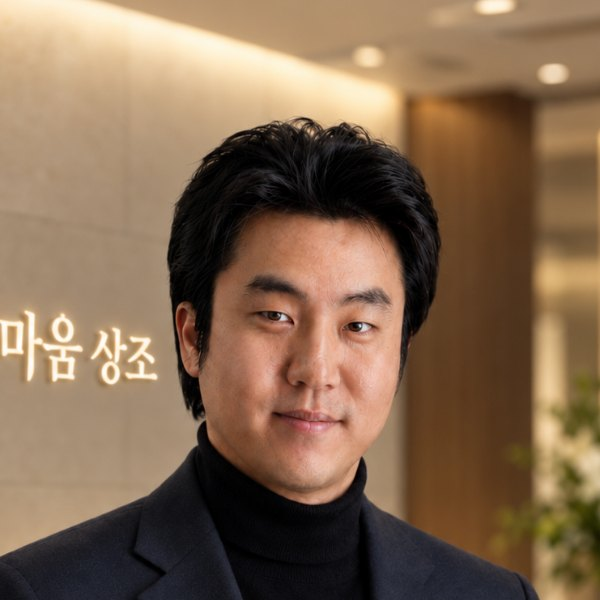
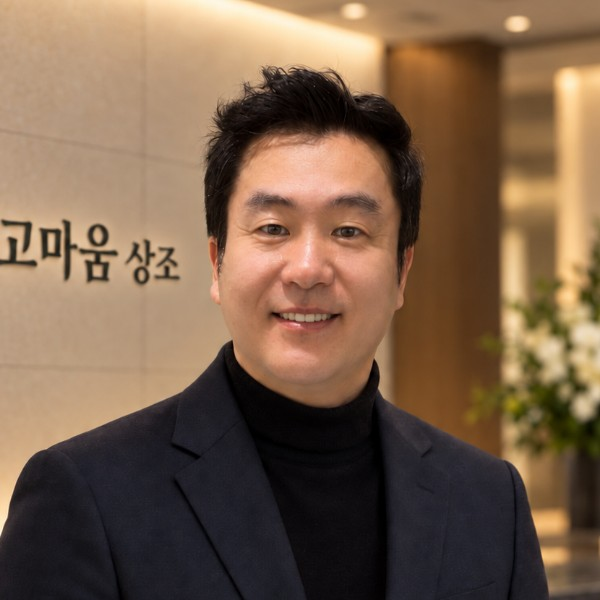
대표 사진을 새 사진으로 바꿨다
대표의 글(홈 둥근 사진)과 약속 쪽의 큰 사진 둘 다 새 사진에서
잘라 냈다. 뒤편 벽 로고가 사이트 로고와 같은 판이다.

- daepyo.jpg  1000×1250 — 원본 비율 그대로
- card-daepyo.jpg 600×600 — 얼굴을 가운데 두고 머리 위 여백을 둔다

Claude-Session: https://claude.ai/code/session_01GkdHr9oZgWkji8dZFs8UMJ

diff --git a/sikjang.html b/sikjang.html
@@ -16,7 +16,7 @@
 <link rel="preconnect" href="https://fonts.gstatic.com" crossorigin>
 <link rel="stylesheet" href="https://fonts.googleapis.com/css2?family=Noto+Serif+KR:wght@400;600;700&family=IBM+Plex+Mono:wght@400;500;600&family=Noto+Sans+KR:wght@400;500;700&display=swap">
 <link rel="stylesheet" href="https://cdn.jsdelivr.net/gh/orioncactus/pretendard@v1.3.9/dist/web/static/pretendard-dynamic-subset.css">
-<link rel="stylesheet" href="assets/css/gomaum.css?v=20260912b">
+<link rel="stylesheet" href="assets/css/gomaum.css?v=20260913a">
 <style>
 .sj-map { scroll-margin-top: 76px; height: 380px; background: var(--surface-2); border: 1px solid var(--line); border-radius: var(--radius); margin: 18px 0 10px; }
 .sj-map[hidden] { display: none; }
@@ -227,7 +227,7 @@
 <script src="assets/js/site-keys.js"></script>
 <script src="assets/js/gm-chrome.js"></script>
 <script src="assets/js/gm-menu.js"></script>
-<script src="assets/js/gm-chat.js?v=20260912b"></script>
+<script src="assets/js/gm-chat.js?v=20260913a"></script>
 <script>
 /* ── 장례식장·납골당 찾기 ──────────────────────────────────
    site-keys.js에 카카오 JavaScript 키가 있으면: 내 주변(위치 허용) 또는 시·도/시·군·구 선택으로

diff --git a/index.html b/index.html
@@ -19,7 +19,7 @@
 <link rel="preconnect" href="https://fonts.gstatic.com" crossorigin>
 <link rel="stylesheet" href="https://fonts.googleapis.com/css2?family=Noto+Serif+KR:wght@400;600;700&family=IBM+Plex+Mono:wght@400;500;600&family=Noto+Sans+KR:wght@400;500;700&display=swap">
 <link rel="stylesheet" href="https://cdn.jsdelivr.net/gh/orioncactus/pretendard@v1.3.9/dist/web/static/pretendard-dynamic-subset.css">
-<link rel="stylesheet" href="assets/css/gomaum.css?v=20260912b">
+<link rel="stylesheet" href="assets/css/gomaum.css?v=20260913a">
 <style>
 /* ── 홈: 커버 한 장, 노래 하나, 전화 하나 ─────────────────
    음악 앱의 '지금 재생 중' 화면처럼. 사진, 이름, 재생 막대, 그리고 전화. */
@@ -409,7 +409,7 @@ a { color: inherit; }
 <script src="assets/js/site-keys.js"></script>
 <script src="assets/js/quiet-horn.js"></script>
 <script src="assets/js/gm-menu.js"></script>
-<script src="assets/js/gm-chat.js?v=20260912b"></script>
+<script src="assets/js/gm-chat.js?v=20260913a"></script>
 <script src="assets/js/petals.js"></script>
 <script>
 /* 떨어지는 백합 꽃잎 — 사진 위, 글자 위로는 옅어진다 */

diff --git a/yaksok.html b/yaksok.html
@@ -17,7 +17,7 @@
 <link rel="preconnect" href="https://fonts.gstatic.com" crossorigin>
 <link rel="stylesheet" href="https://fonts.googleapis.com/css2?family=Noto+Serif+KR:wght@400;600;700&family=IBM+Plex+Mono:wght@400;500;600&family=Noto+Sans+KR:wght@400;500;700&display=swap">
 <link rel="stylesheet" href="https://cdn.jsdelivr.net/gh/orioncactus/pretendard@v1.3.9/dist/web/static/pretendard-dynamic-subset.css">
-<link rel="stylesheet" href="assets/css/gomaum.css?v=20260912b">
+<link rel="stylesheet" href="assets/css/gomaum.css?v=20260913a">
 <style>
 .yk-vision { font-family: var(--f-display); font-size: clamp(1.6rem, 5vw, 2.5rem); font-weight: 700; line-height: 1.34; margin: 0 0 14px; letter-spacing: -0.02em; color: #fff; text-shadow: 0 2px 16px rgba(0,0,0,0.55); }
 .yk-vision span { background: none; color: #fff; padding: 0; }
@@ -171,6 +171,6 @@
 <script src="assets/js/site-keys.js"></script>
 <script src="assets/js/gm-chrome.js"></script>
 <script src="assets/js/gm-menu.js"></script>
-<script src="assets/js/gm-chat.js?v=20260912b"></script>
+<script src="assets/js/gm-chat.js?v=20260913a"></script>
 </body>
 </html>

diff --git a/hyeopryeok.html b/hyeopryeok.html
@@ -16,7 +16,7 @@
 <link rel="preconnect" href="https://fonts.gstatic.com" crossorigin>
 <link rel="stylesheet" href="https://fonts.googleapis.com/css2?family=Noto+Serif+KR:wght@400;600;700&family=IBM+Plex+Mono:wght@400;500;600&family=Noto+Sans+KR:wght@400;500;700&display=swap">
 <link rel="stylesheet" href="https://cdn.jsdelivr.net/gh/orioncactus/pretendard@v1.3.9/dist/web/static/pretendard-dynamic-subset.css">
-<link rel="stylesheet" href="assets/css/gomaum.css?v=20260912b">
+<link rel="stylesheet" href="assets/css/gomaum.css?v=20260913a">
 <style>
 .pt { list-style: none; margin: 0; padding: 0; }
 .pt li { padding: 22px 0; border-bottom: 1px solid var(--line); display: grid; grid-template-columns: 1fr; gap: 6px; }
@@ -174,6 +174,6 @@
 <script src="assets/js/site-keys.js"></script>
 <script src="assets/js/gm-chrome.js"></script>
 <script src="assets/js/gm-menu.js"></script>
-<script src="assets/js/gm-chat.js?v=20260912b"></script>
+<script src="assets/js/gm-chat.js?v=20260913a"></script>
 </body>
 </html>

diff --git a/bugojang.html b/bugojang.html
@@ -21,7 +21,7 @@
 <link rel="preconnect" href="https://fonts.gstatic.com" crossorigin>
 <link rel="stylesheet" href="https://fonts.googleapis.com/css2?family=Noto+Serif+KR:wght@400;600;700&family=IBM+Plex+Mono:wght@400;500;600&family=Noto+Sans+KR:wght@400;500;700&display=swap">
 <link rel="stylesheet" href="https://cdn.jsdelivr.net/gh/orioncactus/pretendard@v1.3.9/dist/web/static/pretendard-dynamic-subset.css">
-<link rel="stylesheet" href="assets/css/gomaum.css?v=20260912b">
+<link rel="stylesheet" href="assets/css/gomaum.css?v=20260913a">
 <script src="assets/js/site-keys.js"></script>
 <script src="assets/js/quiet-horn.js" defer></script>
 <script src="assets/js/petals.js"></script>
@@ -612,6 +612,6 @@
 
 <script src="assets/js/gm-chrome.js"></script>
 <script src="assets/js/gm-menu.js"></script>
-<script src="assets/js/gm-chat.js?v=20260912b"></script>
+<script src="assets/js/gm-chat.js?v=20260913a"></script>
 </body>
 </html>

diff --git a/faq.html b/faq.html
@@ -17,7 +17,7 @@
 <link rel="preconnect" href="https://fonts.gstatic.com" crossorigin>
 <link rel="stylesheet" href="https://fonts.googleapis.com/css2?family=Noto+Serif+KR:wght@400;600;700&family=IBM+Plex+Mono:wght@400;500;600&family=Noto+Sans+KR:wght@400;500;700&display=swap">
 <link rel="stylesheet" href="https://cdn.jsdelivr.net/gh/orioncactus/pretendard@v1.3.9/dist/web/static/pretendard-dynamic-subset.css">
-<link rel="stylesheet" href="assets/css/gomaum.css?v=20260912b">
+<link rel="stylesheet" href="assets/css/gomaum.css?v=20260913a">
 <script type="application/ld+json">
 {
  "@context": "https://schema.org",
@@ -304,6 +304,6 @@
 <script src="assets/js/site-keys.js"></script>
 <script src="assets/js/gm-chrome.js"></script>
 <script src="assets/js/gm-menu.js"></script>
-<script src="assets/js/gm-chat.js?v=20260912b"></script>
+<script src="assets/js/gm-chat.js?v=20260913a"></script>
 </body>
 </html>

diff --git a/bugo.html b/bugo.html
@@ -16,7 +16,7 @@
 <link rel="preconnect" href="https://fonts.gstatic.com" crossorigin>
 <link rel="stylesheet" href="https://fonts.googleapis.com/css2?family=Noto+Serif+KR:wght@400;600;700&family=IBM+Plex+Mono:wght@400;500;600&family=Noto+Sans+KR:wght@400;500;700&display=swap">
 <link rel="stylesheet" href="https://cdn.jsdelivr.net/gh/orioncactus/pretendard@v1.3.9/dist/web/static/pretendard-dynamic-subset.css">
-<link rel="stylesheet" href="assets/css/gomaum.css?v=20260912b">
+<link rel="stylesheet" href="assets/css/gomaum.css?v=20260913a">
 </head>
 <body>
 <a class="gm-skip" href="#main">본문 바로가기</a>
@@ -452,6 +452,6 @@
 <script src="assets/js/site-keys.js"></script>
 <script src="assets/js/gm-chrome.js"></script>
 <script src="assets/js/gm-menu.js"></script>
-<script src="assets/js/gm-chat.js?v=20260912b"></script>
+<script src="assets/js/gm-chat.js?v=20260913a"></script>
 </body>
 </html>

diff --git a/christian.html b/christian.html
@@ -16,7 +16,7 @@
 <link rel="preconnect" href="https://fonts.gstatic.com" crossorigin>
 <link rel="stylesheet" href="https://fonts.googleapis.com/css2?family=Noto+Serif+KR:wght@400;600;700&family=IBM+Plex+Mono:wght@400;500;600&family=Noto+Sans+KR:wght@400;500;700&display=swap">
 <link rel="stylesheet" href="https://cdn.jsdelivr.net/gh/orioncactus/pretendard@v1.3.9/dist/web/static/pretendard-dynamic-subset.css">
-<link rel="stylesheet" href="assets/css/gomaum.css?v=20260912b">
+<link rel="stylesheet" href="assets/css/gomaum.css?v=20260913a">
 </head>
 <body>
 <a class="gm-skip" href="#main">본문 바로가기</a>
@@ -251,6 +251,6 @@
 <script src="assets/js/site-keys.js"></script>
 <script src="assets/js/gm-chrome.js"></script>
 <script src="assets/js/gm-menu.js"></script>
-<script src="assets/js/gm-chat.js?v=20260912b"></script>
+<script src="assets/js/gm-chat.js?v=20260913a"></script>
 </body>
 </html>

diff --git a/danga.html b/danga.html
@@ -16,7 +16,7 @@
 <link rel="preconnect" href="https://fonts.gstatic.com" crossorigin>
 <link rel="stylesheet" href="https://fonts.googleapis.com/css2?family=Noto+Serif+KR:wght@400;600;700&family=IBM+Plex+Mono:wght@400;500;600&family=Noto+Sans+KR:wght@400;500;700&display=swap">
 <link rel="stylesheet" href="https://cdn.jsdelivr.net/gh/orioncactus/pretendard@v1.3.9/dist/web/static/pretendard-dynamic-subset.css">
-<link rel="stylesheet" href="assets/css/gomaum.css?v=20260912b">
+<link rel="stylesheet" href="assets/css/gomaum.css?v=20260913a">
 </head>
 <body>
 <a class="gm-skip" href="#main">본문 바로가기</a>
@@ -281,6 +281,6 @@
 <script src="assets/js/site-keys.js"></script>
 <script src="assets/js/gm-chrome.js"></script>
 <script src="assets/js/gm-menu.js"></script>
-<script src="assets/js/gm-chat.js?v=20260912b"></script>
+<script src="assets/js/gm-chat.js?v=20260913a"></script>
 </body>
 </html>

diff --git a/gaeum.html b/gaeum.html
@@ -16,7 +16,7 @@
 <link rel="preconnect" href="https://fonts.gstatic.com" crossorigin>
 <link rel="stylesheet" href="https://fonts.googleapis.com/css2?family=Noto+Serif+KR:wght@400;600;700&family=IBM+Plex+Mono:wght@400;500;600&family=Noto+Sans+KR:wght@400;500;700&display=swap">
 <link rel="stylesheet" href="https://cdn.jsdelivr.net/gh/orioncactus/pretendard@v1.3.9/dist/web/static/pretendard-dynamic-subset.css">
-<link rel="stylesheet" href="assets/css/gomaum.css?v=20260912b">
+<link rel="stylesheet" href="assets/css/gomaum.css?v=20260913a">
 </head>
 <body>
 <a class="gm-skip" href="#main">본문 바로가기</a>
@@ -471,6 +471,6 @@
 <script src="assets/js/site-keys.js"></script>
 <script src="assets/js/gm-chrome.js"></script>
 <script src="assets/js/gm-menu.js"></script>
-<script src="assets/js/gm-chat.js?v=20260912b"></script>
+<script src="assets/js/gm-chat.js?v=20260913a"></script>
 </body>
 </html>

diff --git a/girok.html b/girok.html
@@ -17,7 +17,7 @@
 <link rel="preconnect" href="https://fonts.gstatic.com" crossorigin>
 <link rel="stylesheet" href="https://fonts.googleapis.com/css2?family=Noto+Serif+KR:wght@400;600;700&family=IBM+Plex+Mono:wght@400;500;600&family=Noto+Sans+KR:wght@400;500;700&display=swap">
 <link rel="stylesheet" href="https://cdn.jsdelivr.net/gh/orioncactus/pretendard@v1.3.9/dist/web/static/pretendard-dynamic-subset.css">
-<link rel="stylesheet" href="assets/css/gomaum.css?v=20260912b">
+<link rel="stylesheet" href="assets/css/gomaum.css?v=20260913a">
 </head>
 <body>
 <a class="gm-skip" href="#main">본문 바로가기</a>
@@ -145,6 +145,6 @@
 <script src="assets/js/site-keys.js"></script>
 <script src="assets/js/gm-chrome.js"></script>
 <script src="assets/js/gm-menu.js"></script>
-<script src="assets/js/gm-chat.js?v=20260912b"></script>
+<script src="assets/js/gm-chat.js?v=20260913a"></script>
 </body>
 </html>

diff --git a/gyeolhap.html b/gyeolhap.html
@@ -16,7 +16,7 @@
 <link rel="preconnect" href="https://fonts.gstatic.com" crossorigin>
 <link rel="stylesheet" href="https://fonts.googleapis.com/css2?family=Noto+Serif+KR:wght@400;600;700&family=IBM+Plex+Mono:wght@400;500;600&family=Noto+Sans+KR:wght@400;500;700&display=swap">
 <link rel="stylesheet" href="https://cdn.jsdelivr.net/gh/orioncactus/pretendard@v1.3.9/dist/web/static/pretendard-dynamic-subset.css">
-<link rel="stylesheet" href="assets/css/gomaum.css?v=20260912b">
+<link rel="stylesheet" href="assets/css/gomaum.css?v=20260913a">
 </head>
 <body>
 <a class="gm-skip" href="#main">본문 바로가기</a>
@@ -292,6 +292,6 @@
 <script src="assets/js/site-keys.js"></script>
 <script src="assets/js/gm-chrome.js"></script>
 <script src="assets/js/gm-menu.js"></script>
-<script src="assets/js/gm-chat.js?v=20260912b"></script>
+<script src="assets/js/gm-chat.js?v=20260913a"></script>
 </body>
 </html>
